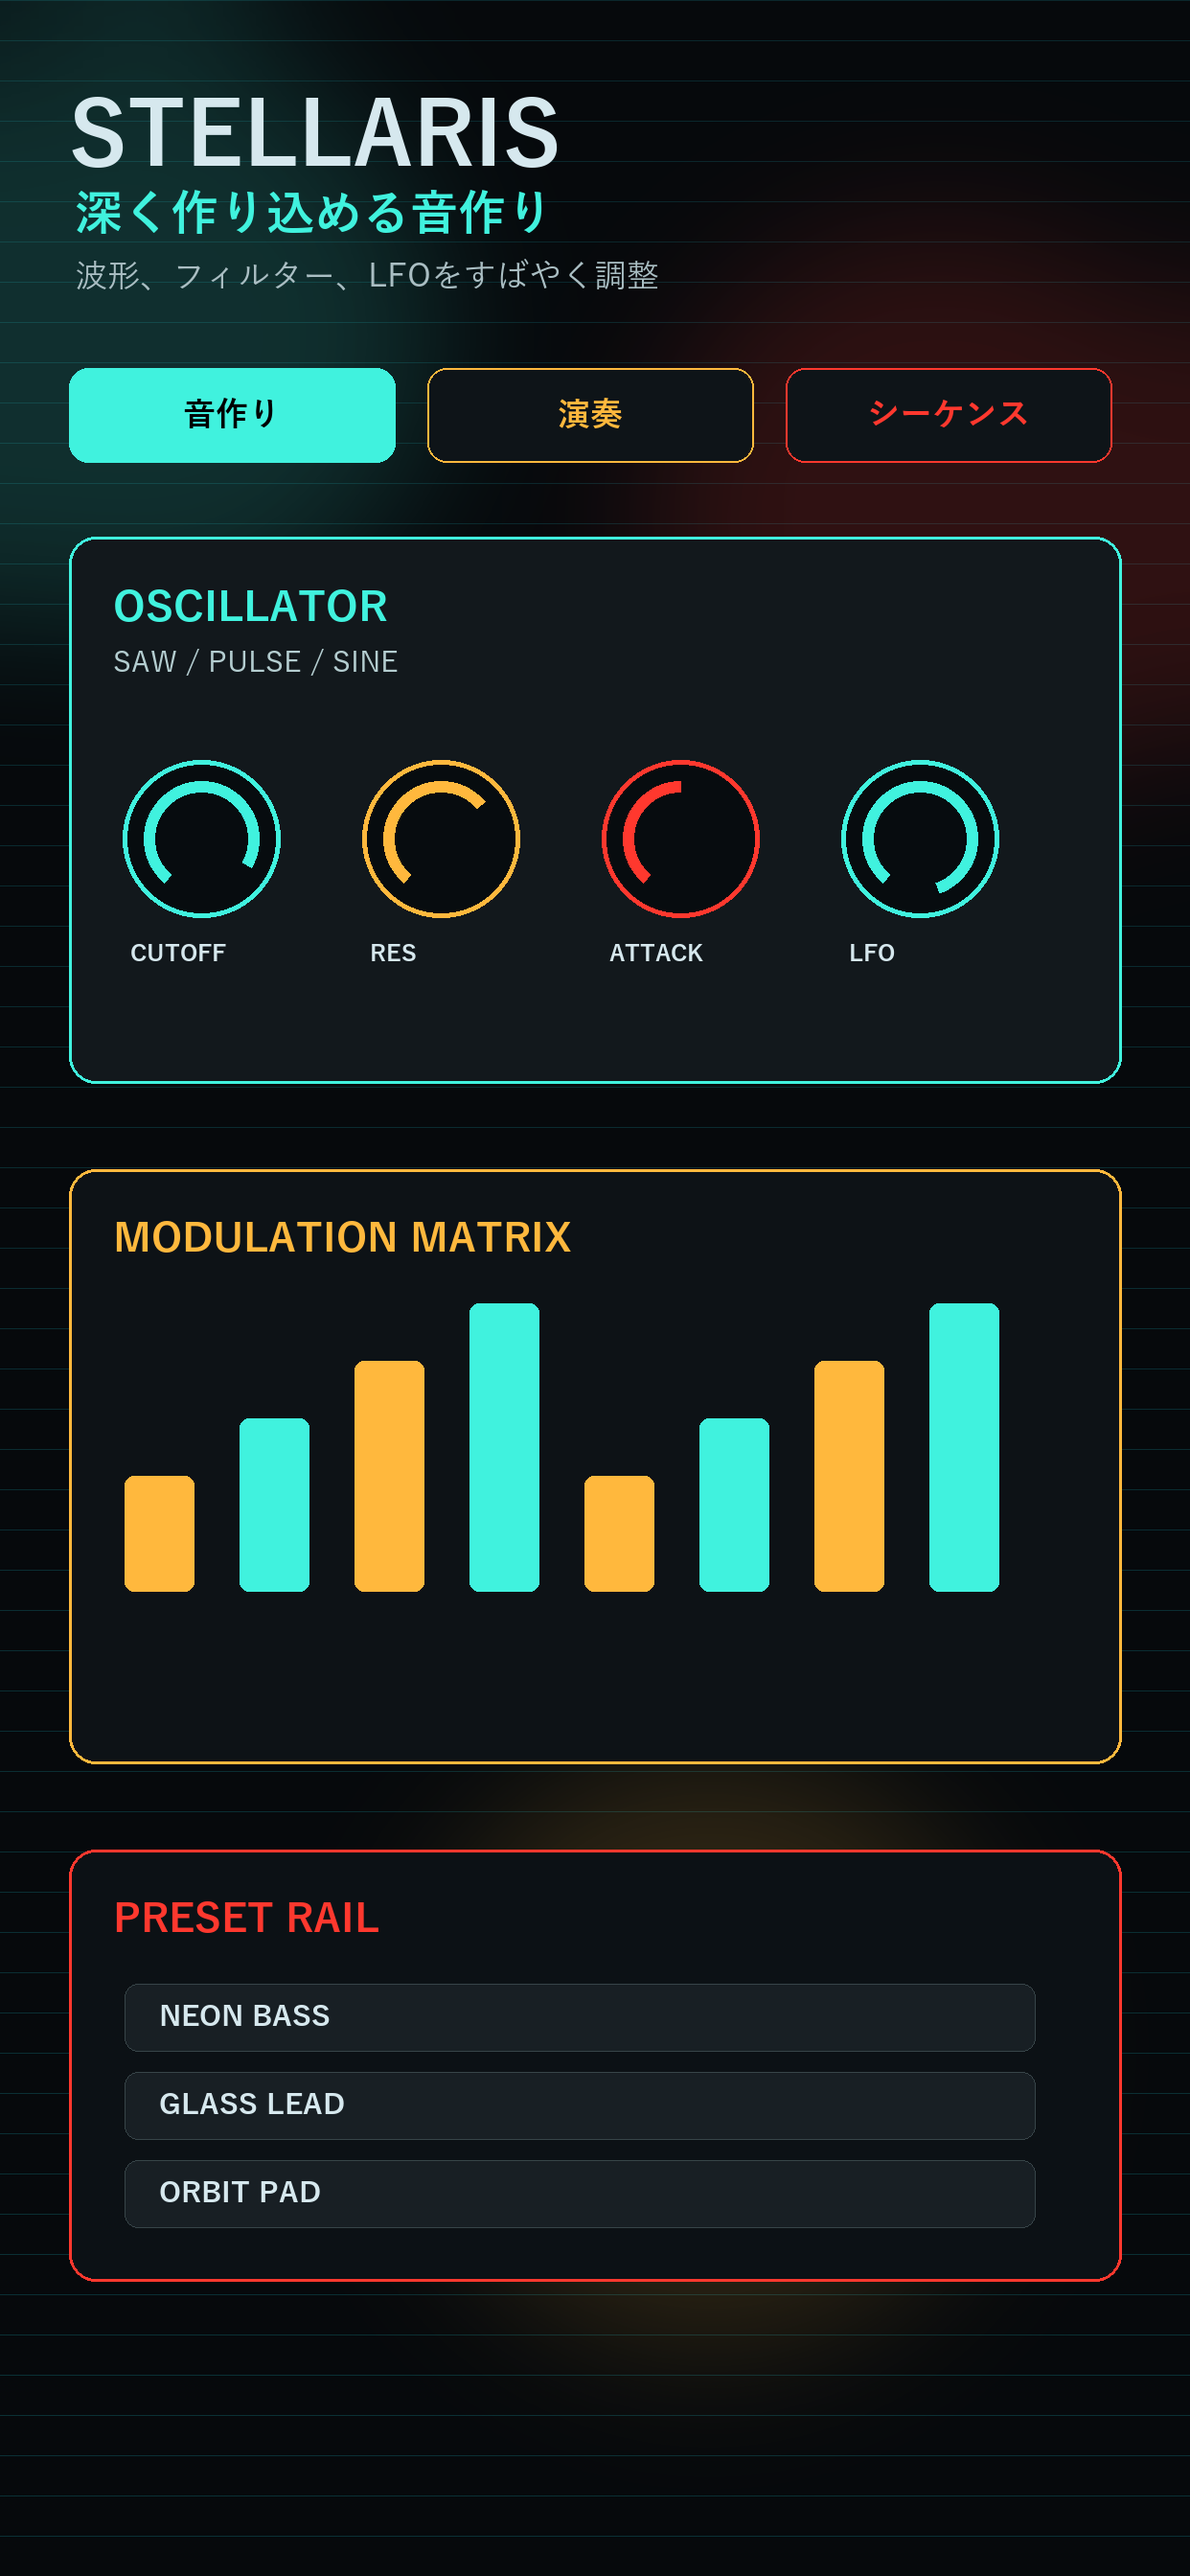
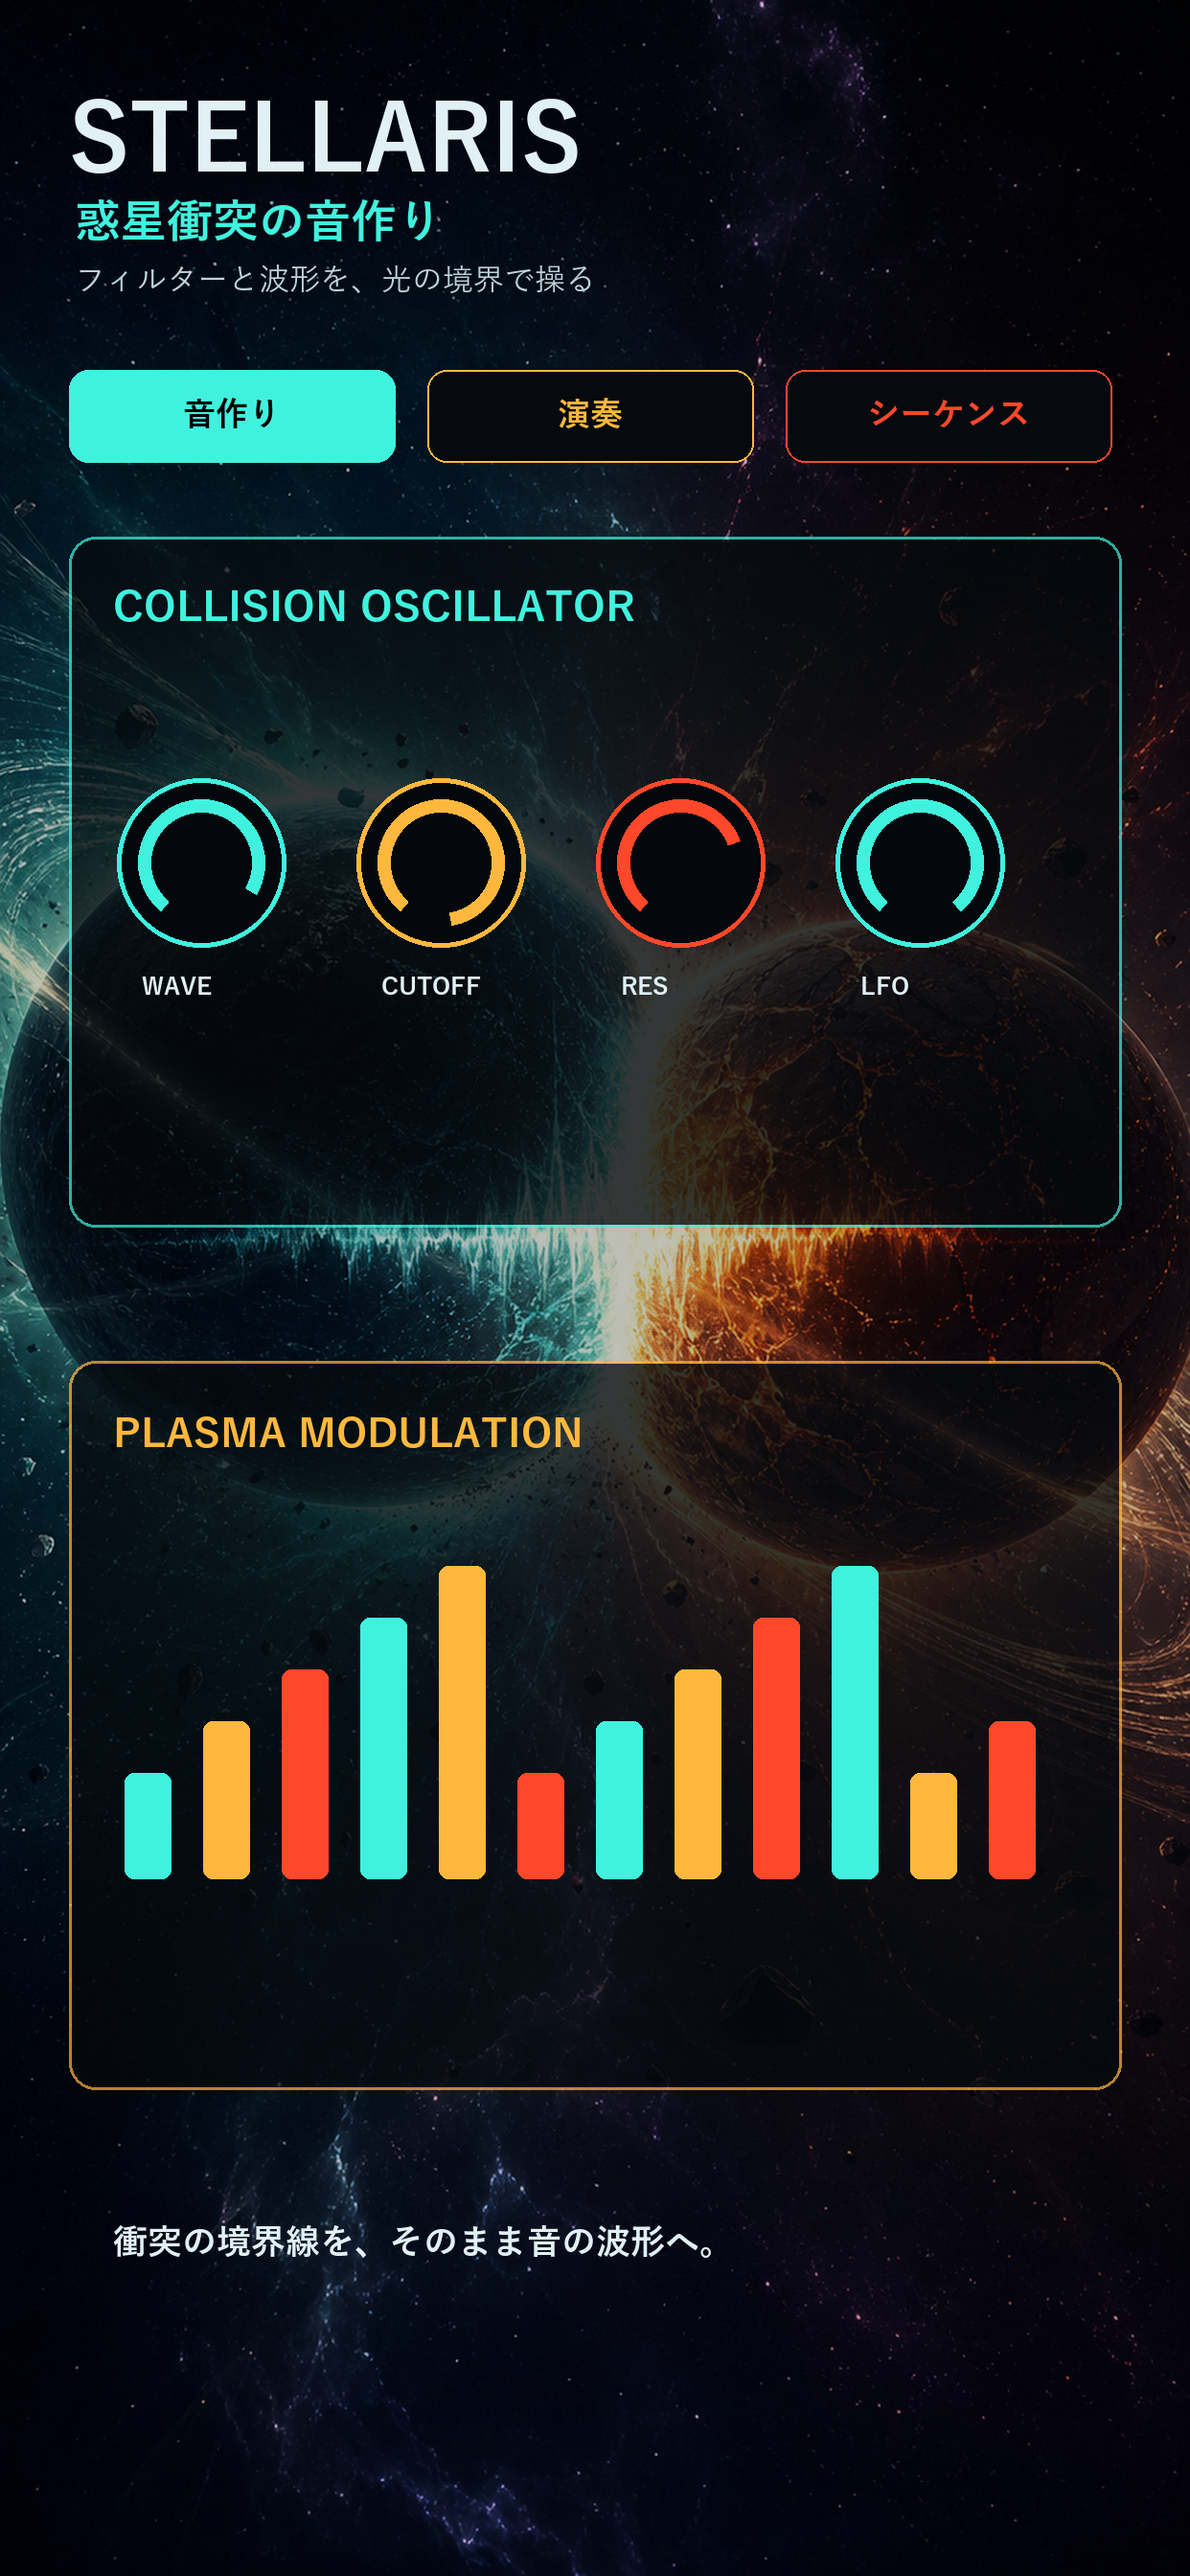
Update App Store screenshots for collision redesign

diff --git a/scripts/prepare_store_metadata.py b/scripts/prepare_store_metadata.py
@@ -23,12 +23,12 @@ REVIEW_CONTACT = {
 
 VERSION_META = {
     "description": (
-        "STELLARISは、音作り、演奏、シーケンスを1つの画面で扱えるシンセサイザーアプリです。\n\n"
-        "波形、フィルター、エンベロープ、LFO、XYパッド、ステップシーケンサーを使い、"
-        "すばやく音を作ってそのまま演奏できます。暗いステージのようなUIで、ライブ感のある操作に集中できます。"
+        "STELLARISは、音作り、演奏、シーケンスを3つの画面で扱うシンセサイザーアプリです。\n\n"
+        "波形、フィルター、エンベロープ、LFO、XYパッド、ステップシーケンサーを使い、音を作ってそのまま演奏できます。"
+        "惑星が衝突する瞬間のようなUIで、暗い宇宙と光の境界を触りながら音を変えていけます。"
     ),
     "keywords": "シンセサイザー,音楽制作,演奏,シーケンサー,音作り,電子音楽,鍵盤,LFO",
-    "promotionalText": "音作り、演奏、シーケンスを1つのシンセ空間で。",
+    "promotionalText": "音作り、演奏、シーケンスをひとつのシンセ空間で。",
     "supportUrl": "https://github.com/snarfnet/STELLARIS",
 }
 
